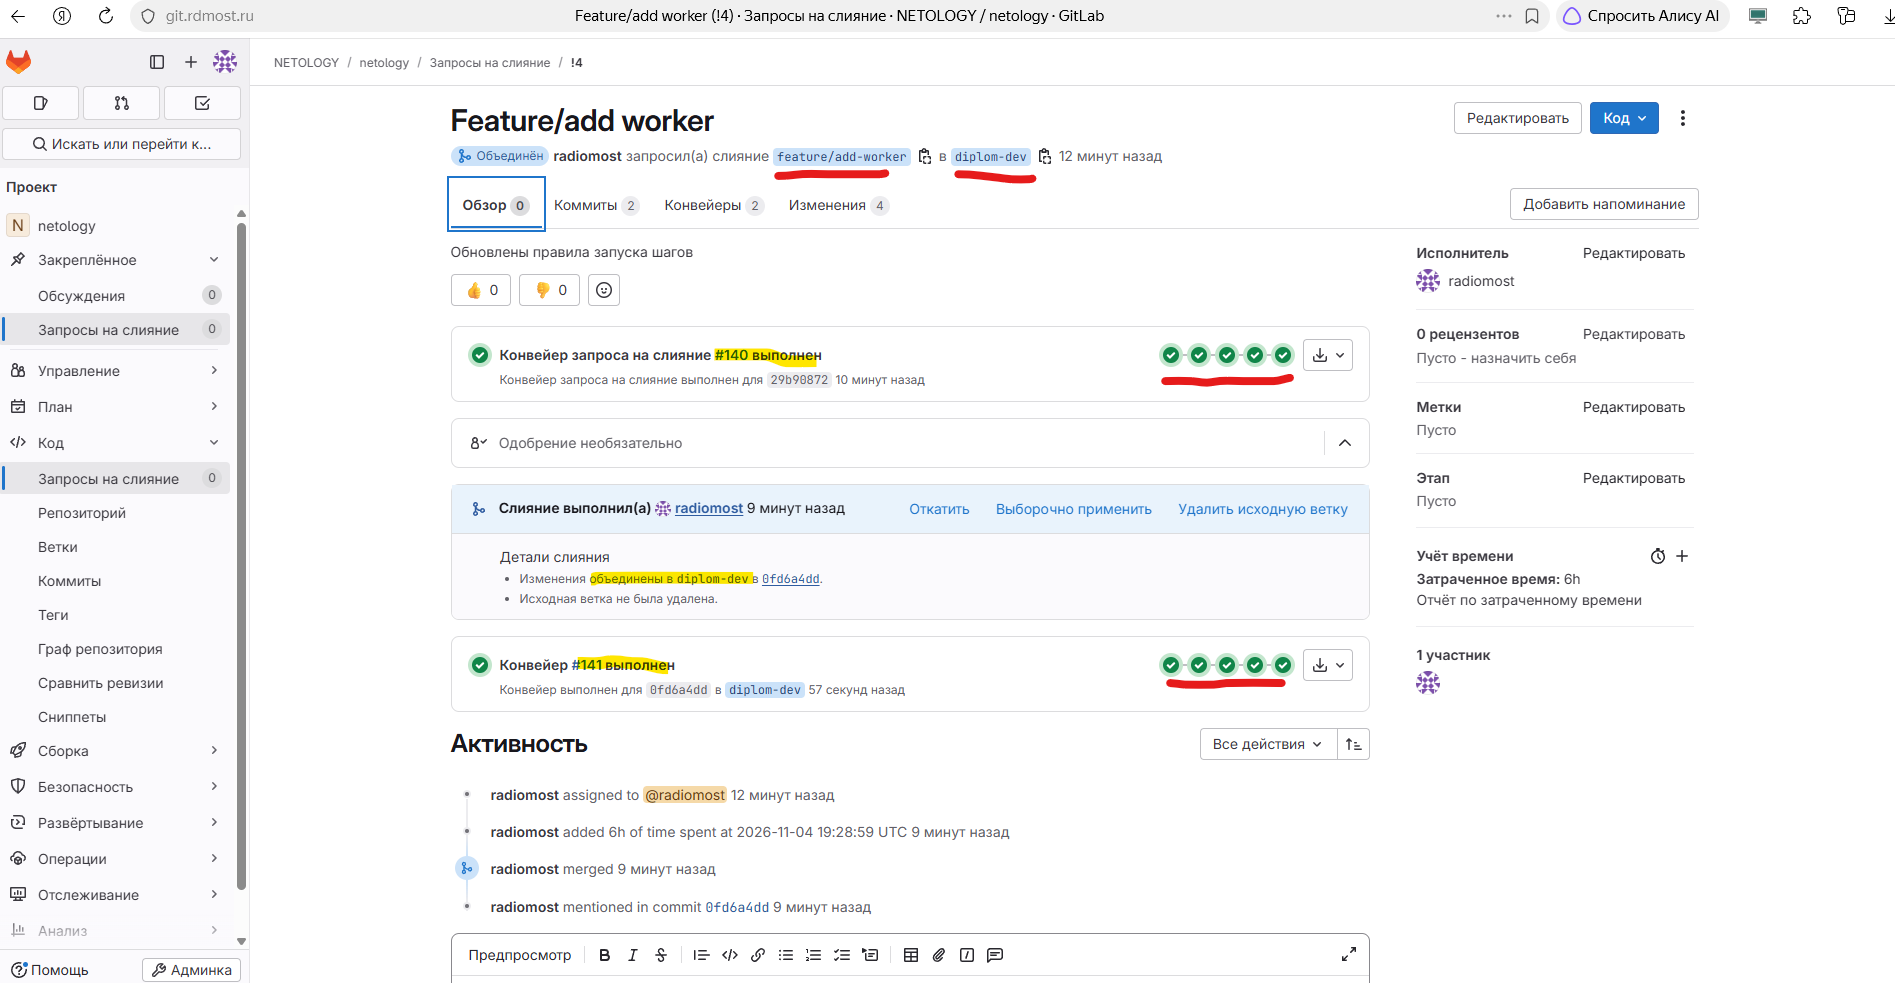
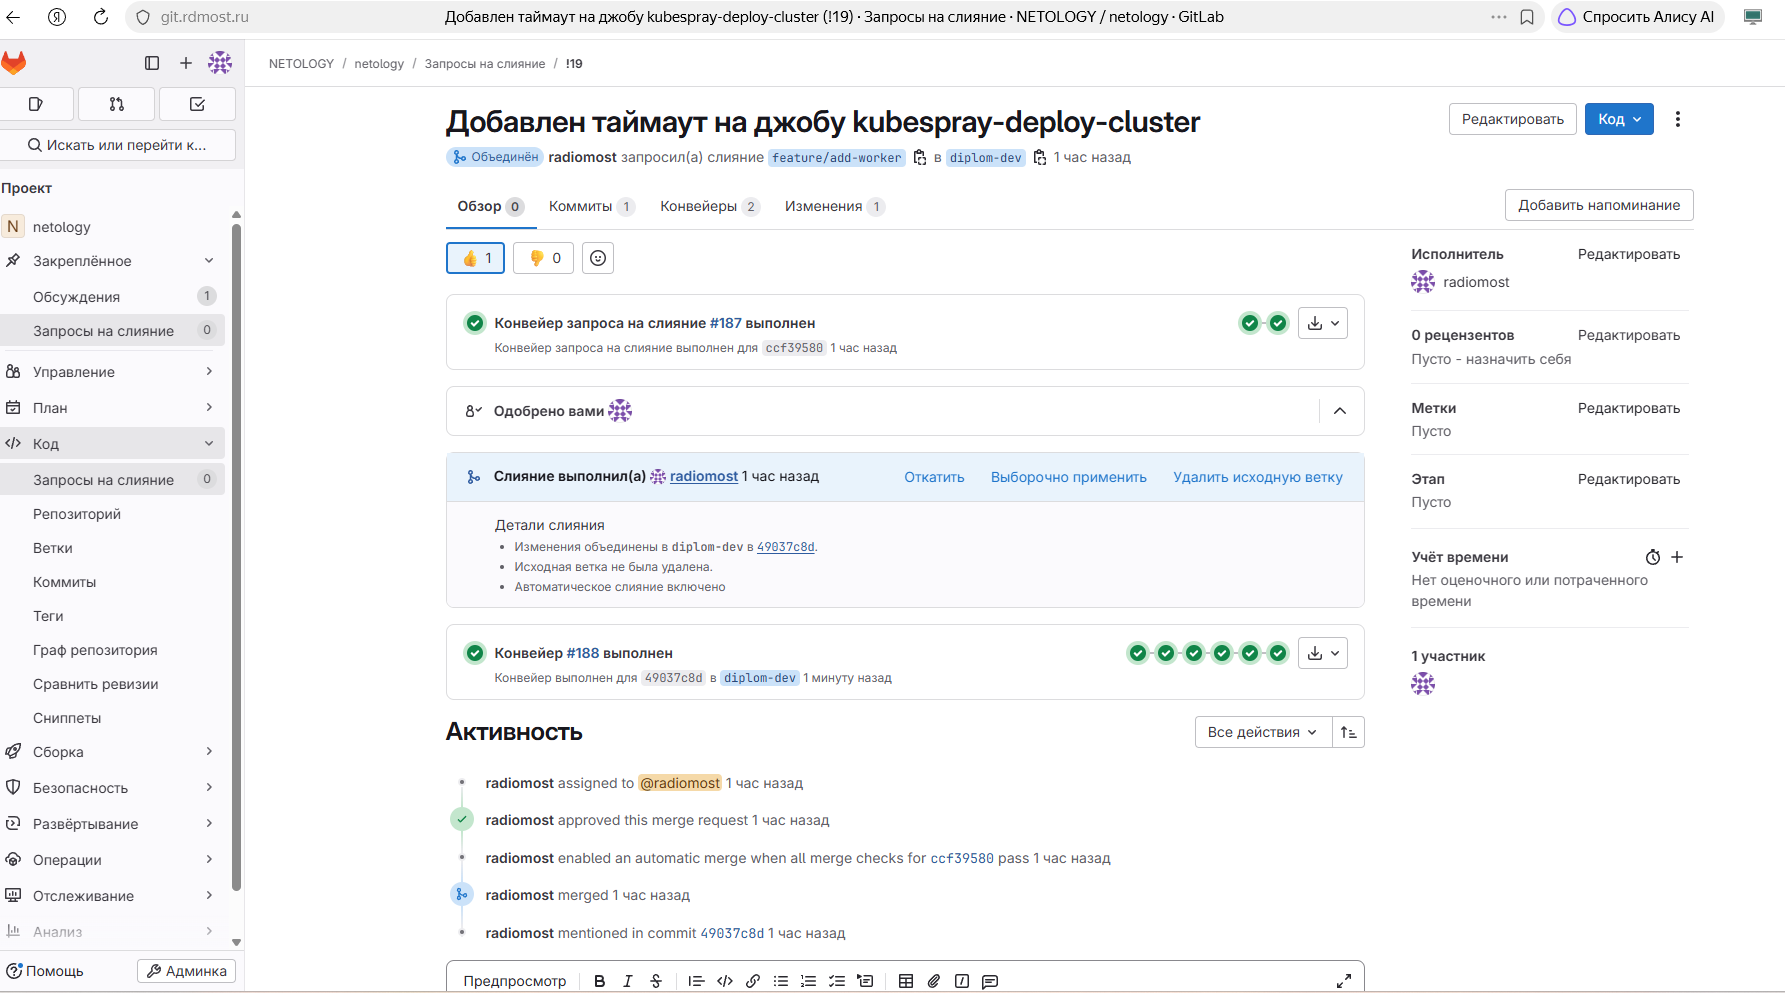
добавлены изображения

diff --git a/README.md b/README.md
@@ -575,6 +575,10 @@ kubectl create secret docker-registry ycr-secret \
 
 !['img_22.png'](img/img_22.png)
 
+!['img_23.png'](img/img_23.png)
+
+!['img_24.png'](img/img_24.png)
+
 #### Результат
 
 !['img_11.png'](img/img_11.png)
